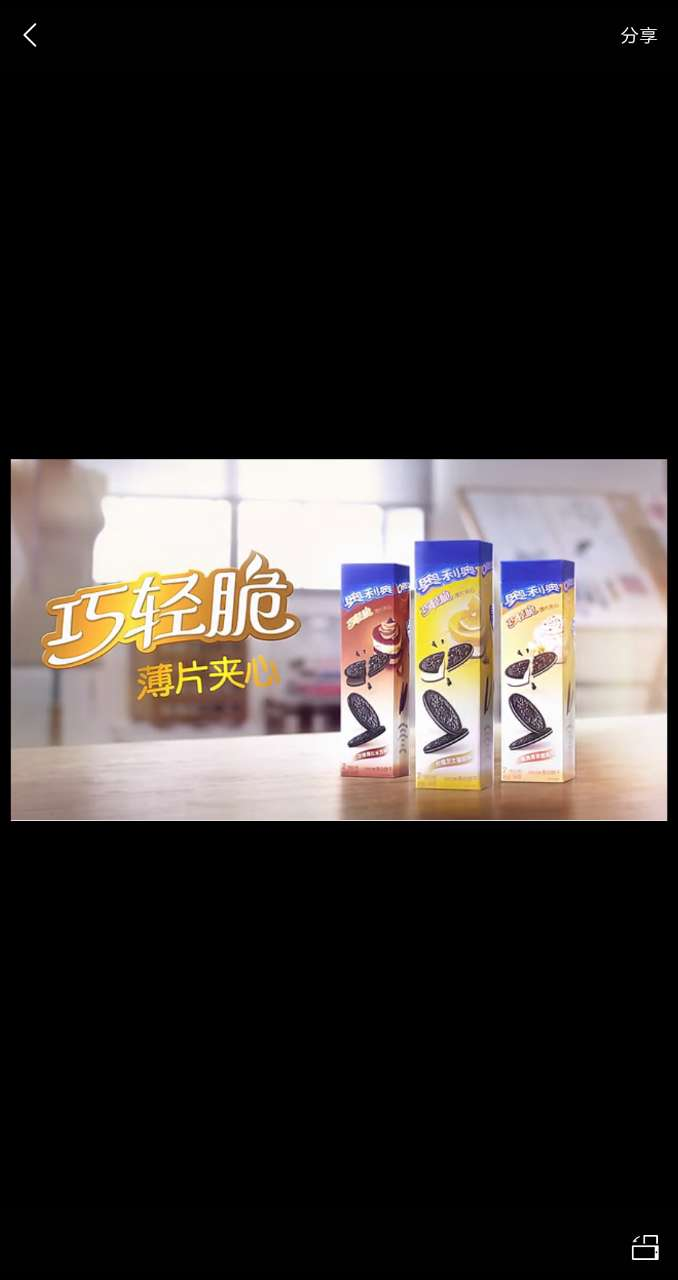
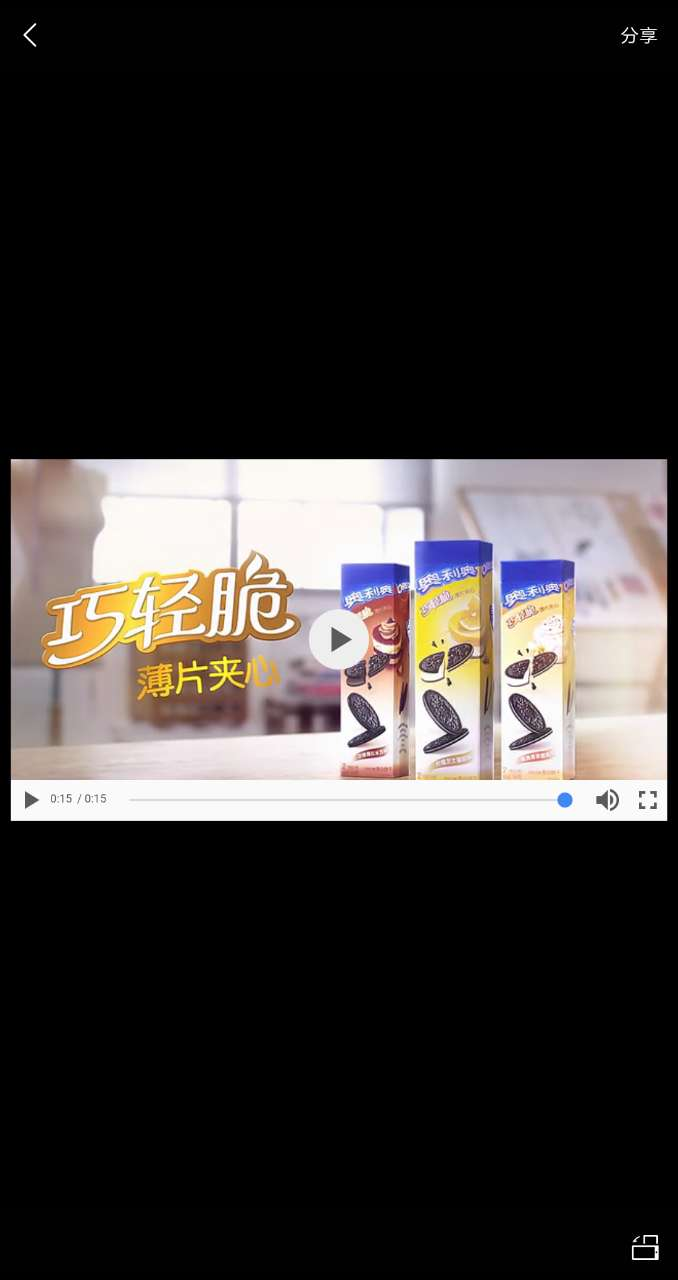
Change-Id: Ic8309d26461e68ba7e521d649b90f6036da931ad Signed-off-by: zzx18023 <969871721@qq.com>

Changed region(s): [[0.0, 0.5938, 0.9912, 0.6562], [0.4646, 0.4688, 0.5575, 0.5312]]

diff --git a/demo/new_file.html b/demo/new_file.html
@@ -10,12 +10,13 @@
 		<style type="text/css">
 			video {
 				width: 100%;
+				background-color: #ddd;
 			}
 		</style>
 	</head>
 
 	<body>
-		<video src="video/advideo.mp4" x5-video-player-type="h5"></video>
+		<video controls="controls" src="video/advideo.mp4" x5-video-player-type="h5"></video>
 
 		<!--<video controls="controls" src="video/fVobI0704-mobile.mp4" x5-video-player-type="h5" x5-video-player-fullscreen="true" x5-video-orientation="landscape" poster="img/poster.png"></video>
 		<script type="text/javascript">

diff --git a/README.md b/README.md
@@ -1,40 +1,42 @@
 # 移动端video标签的一些特殊性以及x5内核下如何使用同城播放器。
 ***
->在移动端video标签的表现和PC端不大一样，相信开发者们基本都有接触过。
+> 在移动端video标签的表现和PC端不大一样，相信开发者们基本都有接触过。
 
->大部分浏览器都会对video标签进行接管，使用自己的播放器进行视频播放。
+> 大部分浏览器都会对video标签进行接管，使用自己的播放器进行视频播放。
 
->普遍表现为悬浮于网页内对应video标签位置，造成的影响便是置顶播放。
+> 普遍表现为悬浮于网页内对应video标签位置，造成的影响便是置顶播放。
 
->也有的手机上表现为全屏播放！
+> 也有的手机上表现为全屏播放！
 
->从而造成了很多问题，比如因为video置顶显示，导致自制播放器UI被遮挡，字幕、弹幕被遮挡，甚至播放器内会出现广告。
+> 从而造成了很多问题，比如因为video置顶显示，导致自制播放器UI被遮挡，字幕、弹幕被遮挡，甚至播放器内会出现广告。
 
-###在x5内核下使用同层播放器
+### 在x5内核下使用同层播放器
 
->不过x5内核给开发者提供了一种同层播放模式，[H5同层播放器接入规范](https://x5.tencent.com/tbs/guide/video.html)
+> 不过x5内核给开发者提供了一种同层播放模式，[H5同层播放器接入规范](https://x5.tencent.com/tbs/guide/video.html)
 
->使用该模式可以实现video在页内正常渲染。
+> 使用该模式可以实现video在页内正常渲染。
 
->先看看其表现如何(主要做微信内):
+> 先看看其表现如何(主要做微信内):
 
->**测试环境：**
+> **测试环境：**
 
 >>* 机型：小米MIX
 >>* Android版本：7.0
 >>* 微信版本：6.5.8
 >>* TBS内核版本：043307 (大于036849表示支持同层播放器)
 
->在video标签上添加属性x5-video-player-type="h5"启用Ｈ5同层播放器
+> 在video标签上添加属性x5-video-player-type="h5"启用Ｈ5同层播放器
 >```
 <style type="text/css">
 	video {
 		width: 100%;
+		background-color: #ddd;
 	}
 </style>
 <video controls="controls" src="video/advideo.mp4" x5-video-player-type="h5" ></video>
 ```
-> <img src="Screenshot/001.jpg" width="300px"/>|123456798
+> <img src="Screenshot/000.jpg" width="200px"/><img src="Screenshot/001.jpg" width="200px"/>
+> 进入同层播放器后 video被单独的显示出来，并且视窗大小修改为video相同大小。居中显示。
 
 
 
